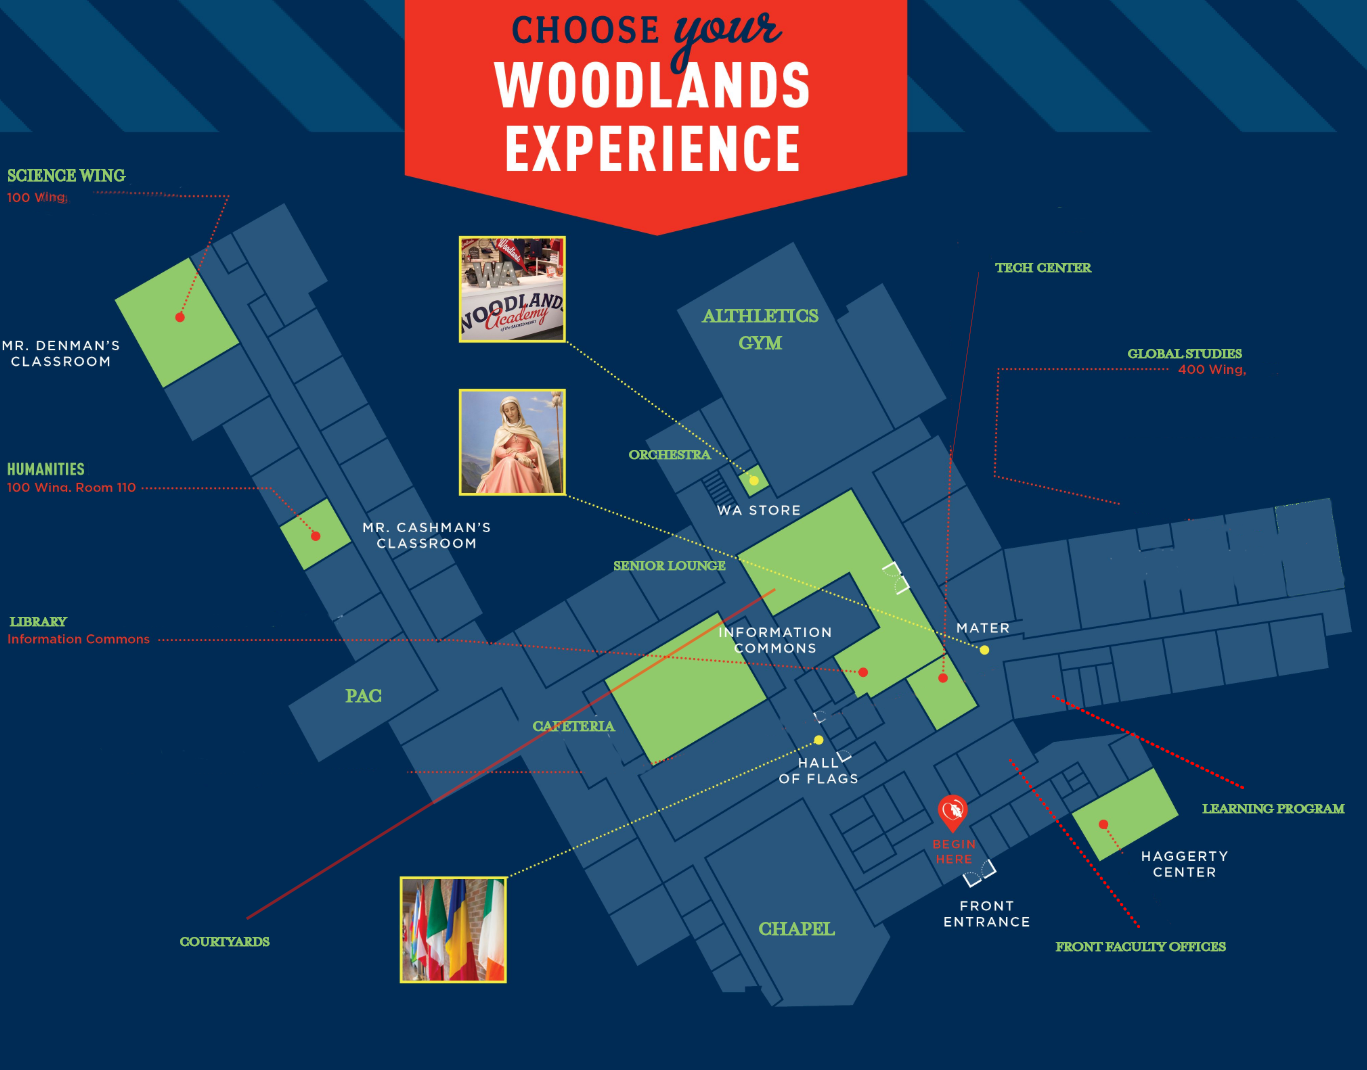
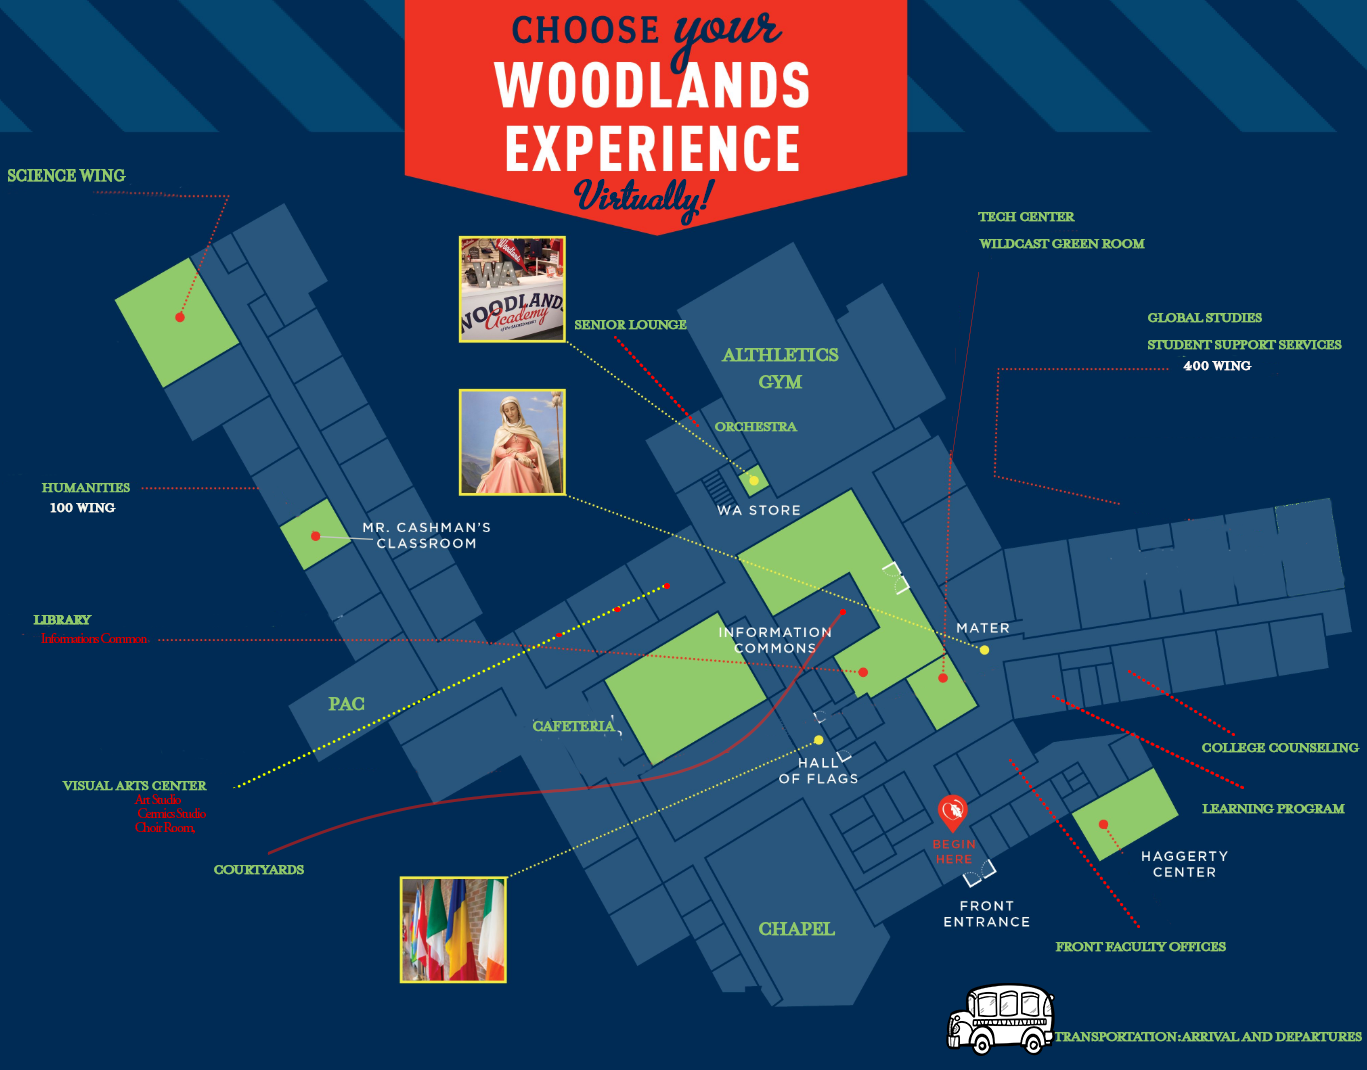
initial

diff --git a/index.html b/index.html
@@ -3,14 +3,16 @@
 
 <map name="image-map">
     <area target="" alt="science" title="science" href="https://photos.app.goo.gl/TttTgqQPQNBGqSka8"
-        coords="113,301,188,255,242,347,161,394" shape="poly">
-    <area target="" alt="haggerty" title="haggerty" href="https://photos.app.goo.gl/243kP67cHKnAZHUY9"
-        coords="1064,812,1154,764,1184,816,1098,862" shape="poly">
+        coords="114,300,190,251,243,341,162,390" shape="poly">
     <area target="" alt="pac" title="pac" href="https://photos.app.goo.gl/aE9XQPLbD1JnuAZA8"
-        coords="282,704,400,625,439,687,318,760" shape="poly">
+        coords="283,705,399,626,435,688,319,762" shape="poly">
     <area target="" alt="cafeteria" title="cafeteria" href="https://photos.app.goo.gl/BHRpE1sDZ2bnM2r66"
-        coords="604,680,714,611,767,697,655,772" shape="poly">
+        coords="604,679,720,607,769,693,651,764" shape="poly">
     <area target="" alt="gym" title="gym" href="https://photos.app.goo.gl/VigoucV44YwdGvVw9"
-        coords="776,495,671,306,792,238,895,430" shape="poly">
+        coords="674,310,795,239,895,430,776,499" shape="poly">
+    <area target="" alt="haggerty" title="haggerty" href="https://photos.app.goo.gl/243kP67cHKnAZHUY9"
+        coords="1066,814,1154,764,1180,810,1096,860" shape="poly">
+    <area target="" alt="art" title="art" href="https://photos.app.goo.gl/UadRwRRgs1QS9i4q7"
+        coords="513,629,566,594,600,653,543,688" shape="poly">
     <area target="" alt="" title="" href="" coords="" shape="0">
 </map>
